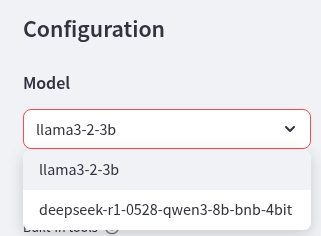
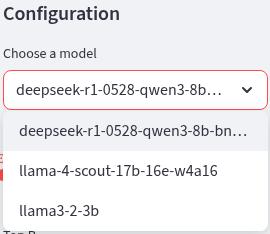
🎓 add llama-4 maas 🎓

diff --git a/docs/3-agents-tools/0-intro.md b/docs/3-agents-tools/0-intro.md
@@ -14,7 +14,7 @@ If you are intersted in how to configure LLamaStack, checkout the [docs](https:/
 
 ## Models
 
-We have three models configured in LLamaStack. Two of them are available to `Chat` to i.e. are type `llm` in the model dropdown. The third model is an `embedding` model.
+We have four models configured in LLamaStack. Three of them are available to `Chat` to i.e. are type `llm` in the model dropdown. The third model is an `embedding` model.
 
 ```yaml
 models:
@@ -31,19 +31,28 @@ models:
   model_id: all-MiniLM-L6-v2
   provider_id: sentence-transformers
   model_type: embedding
+- metadata: {}
+  model_id: llama-4-scout-17b-16e-w4a16
+  provider_id: vllm-llama-4-guard
+  provider_model_id: llama-4-scout-17b-16e-w4a16
+  model_type: llm
 ```
 
 ![images/model-intro.png](images/model-intro.png)
 
-The models are small in terms of parameter size (3b and 8b) and the DeepSeek model is quantized to 4-bit. This reduces the amount of memory they consume on the GPU. Even so we are using 18Gi of nvram to run the LLM's. If you browse to the <a href="https://console-openshift-console.apps.sno.<CLUSTER_DOMAIN>/k8s/ns/llama-serving/core~v1~Pod" target="_blank">Deepseek Pod</a> enter the `Terminal` and run `nvtop` on the command line to see the GPU performance.
+The *llama-3* and *deepseek* models are running locally in the OpenShift cluster - they are small in terms of parameter size (3b and 8b) and the DeepSeek model is quantized to 4-bit. This reduces the amount of memory they consume on the GPU. Even so we are using 18Gi of nvram to run the LLM's. If you browse to the <a href="https://console-openshift-console.apps.sno.<CLUSTER_DOMAIN>/k8s/ns/llama-serving/core~v1~Pod" target="_blank">Deepseek Pod</a> enter the `Terminal` and run `nvtop` on the command line to see the GPU performance.
+
+The *llama-4 scout* model is running in a Model as a Service (MaaS) eternally to the cluster. It is a much larber LLM (17b), but still quantized (w4a16).
 
 ![images/model-gpu.png](images/model-gpu.png)
 
 ## Chat
 
-You can chat with either of the two LLM models. You should note that the LLama model is an [instruction tuned model](https://huggingface.co/meta-llama/Llama-3.2-3B) whilst the Deepseek model is a [reasoning model](https://huggingface.co/unsloth/DeepSeek-R1-0528-Qwen3-8B-bnb-4bit). Deepseek will produce reasoning tokens (between \<think\>) where it will try to break a problem down into steps prior to generating output tokens.
+You can chat with either of the three LLM models. You should note that the llama-3 model is an [instruction tuned model](https://huggingface.co/meta-llama/Llama-3.2-3B) whilst the deepseek model is a [reasoning model](https://huggingface.co/unsloth/DeepSeek-R1-0528-Qwen3-8B-bnb-4bit). Deepseek will produce reasoning tokens (between \<think\>) where it will try to break a problem down into steps prior to generating output tokens.
 
 ![images/chat-intro.png](images/chat-intro.png)
+
+The llama-4 model running in MaaS is a RedHat validated model and is a [Mixture of Experts (MoE)](https://huggingface.co/blog/moe) model - you can see the RedHat validated models on [RedHatAI Hugging Face](https)://huggingface.co/RedHatAI/Llama-4-Scout-17B-16E-Instruct-quantized.w4a16)
 
 ## RAG
 
